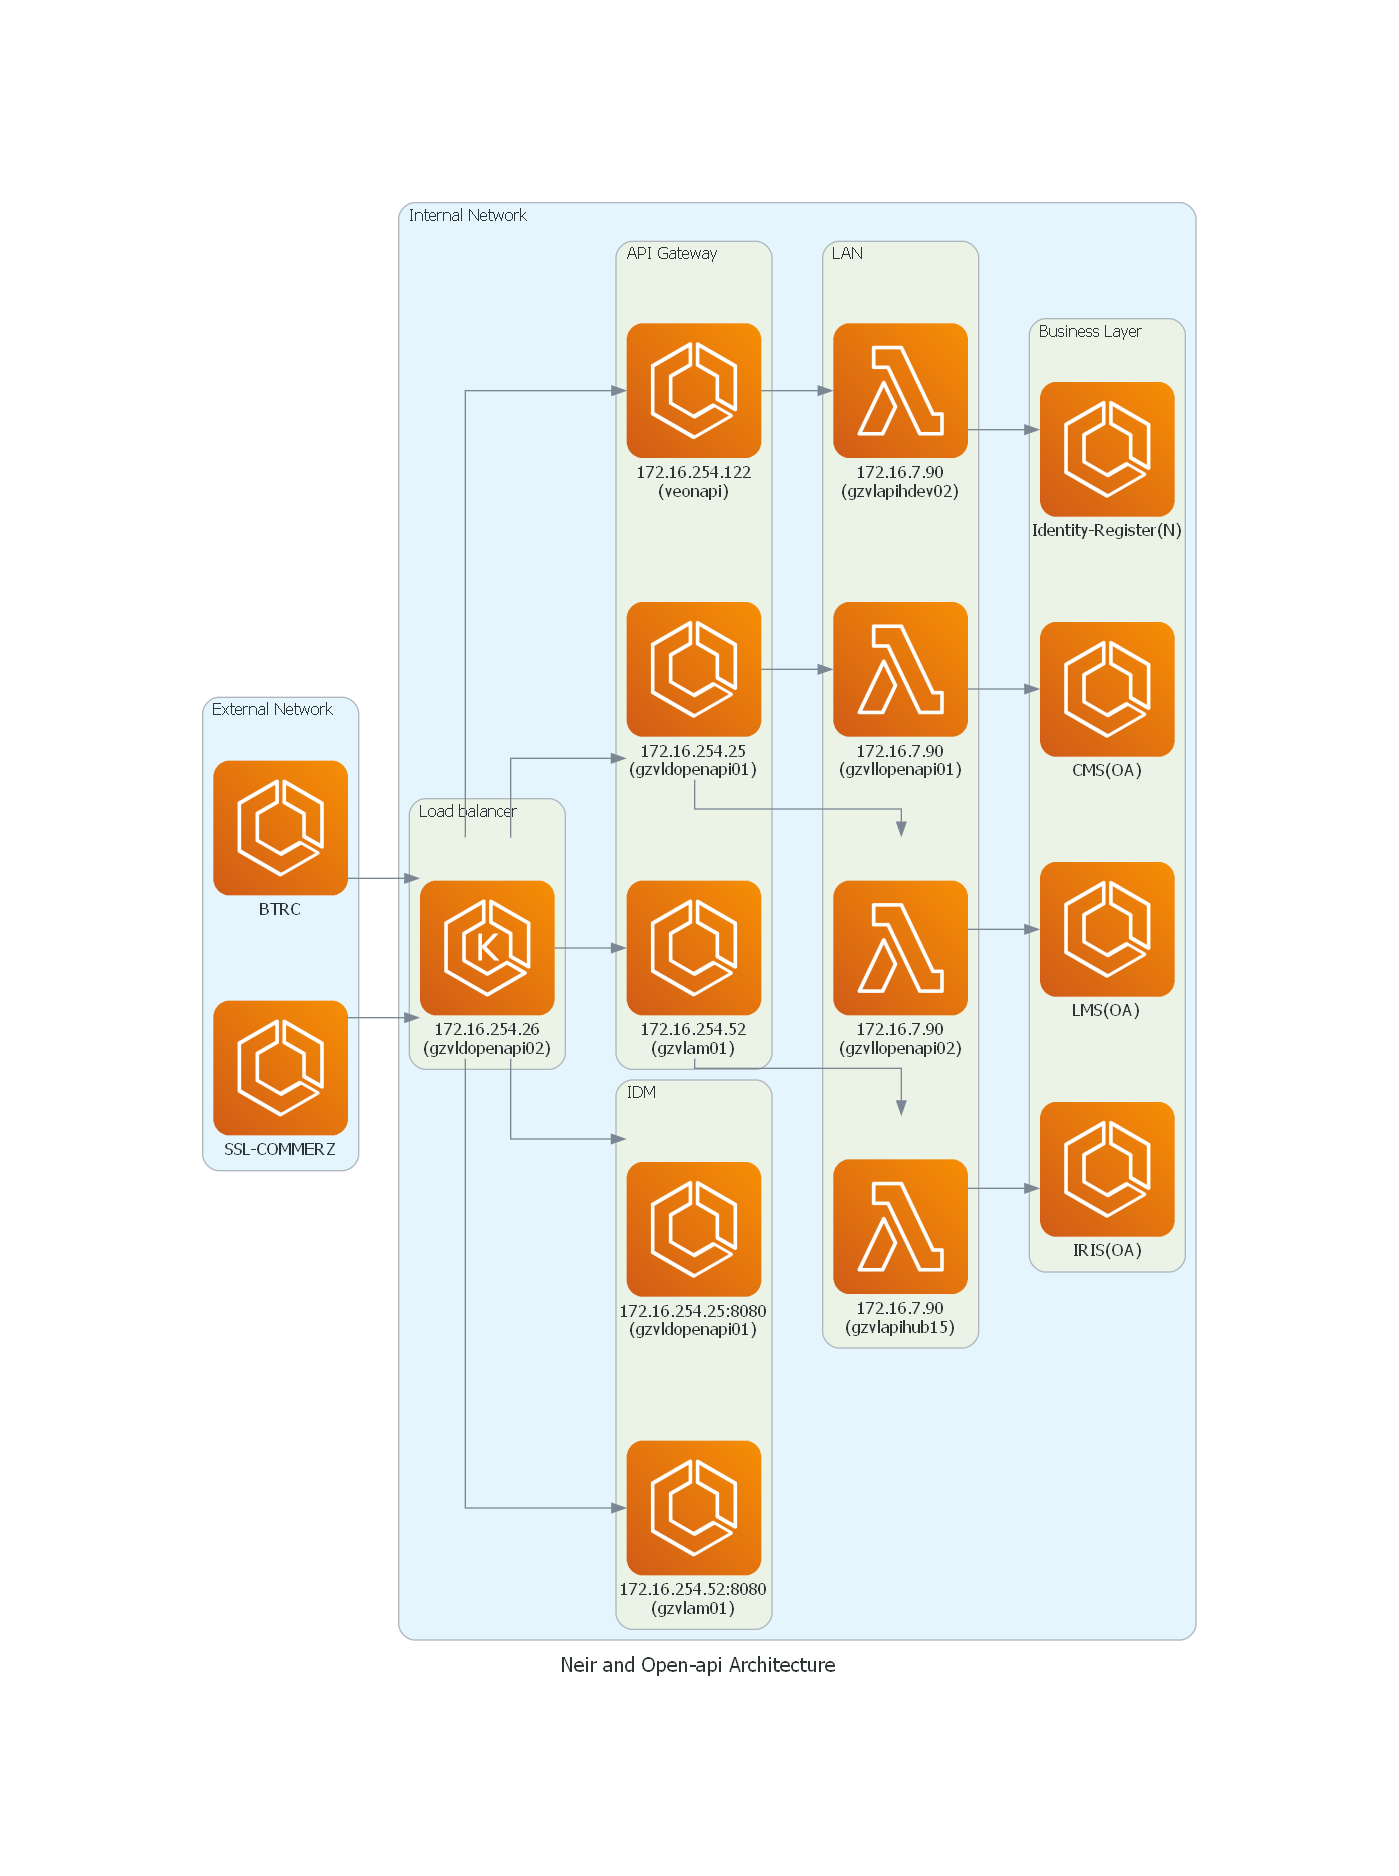
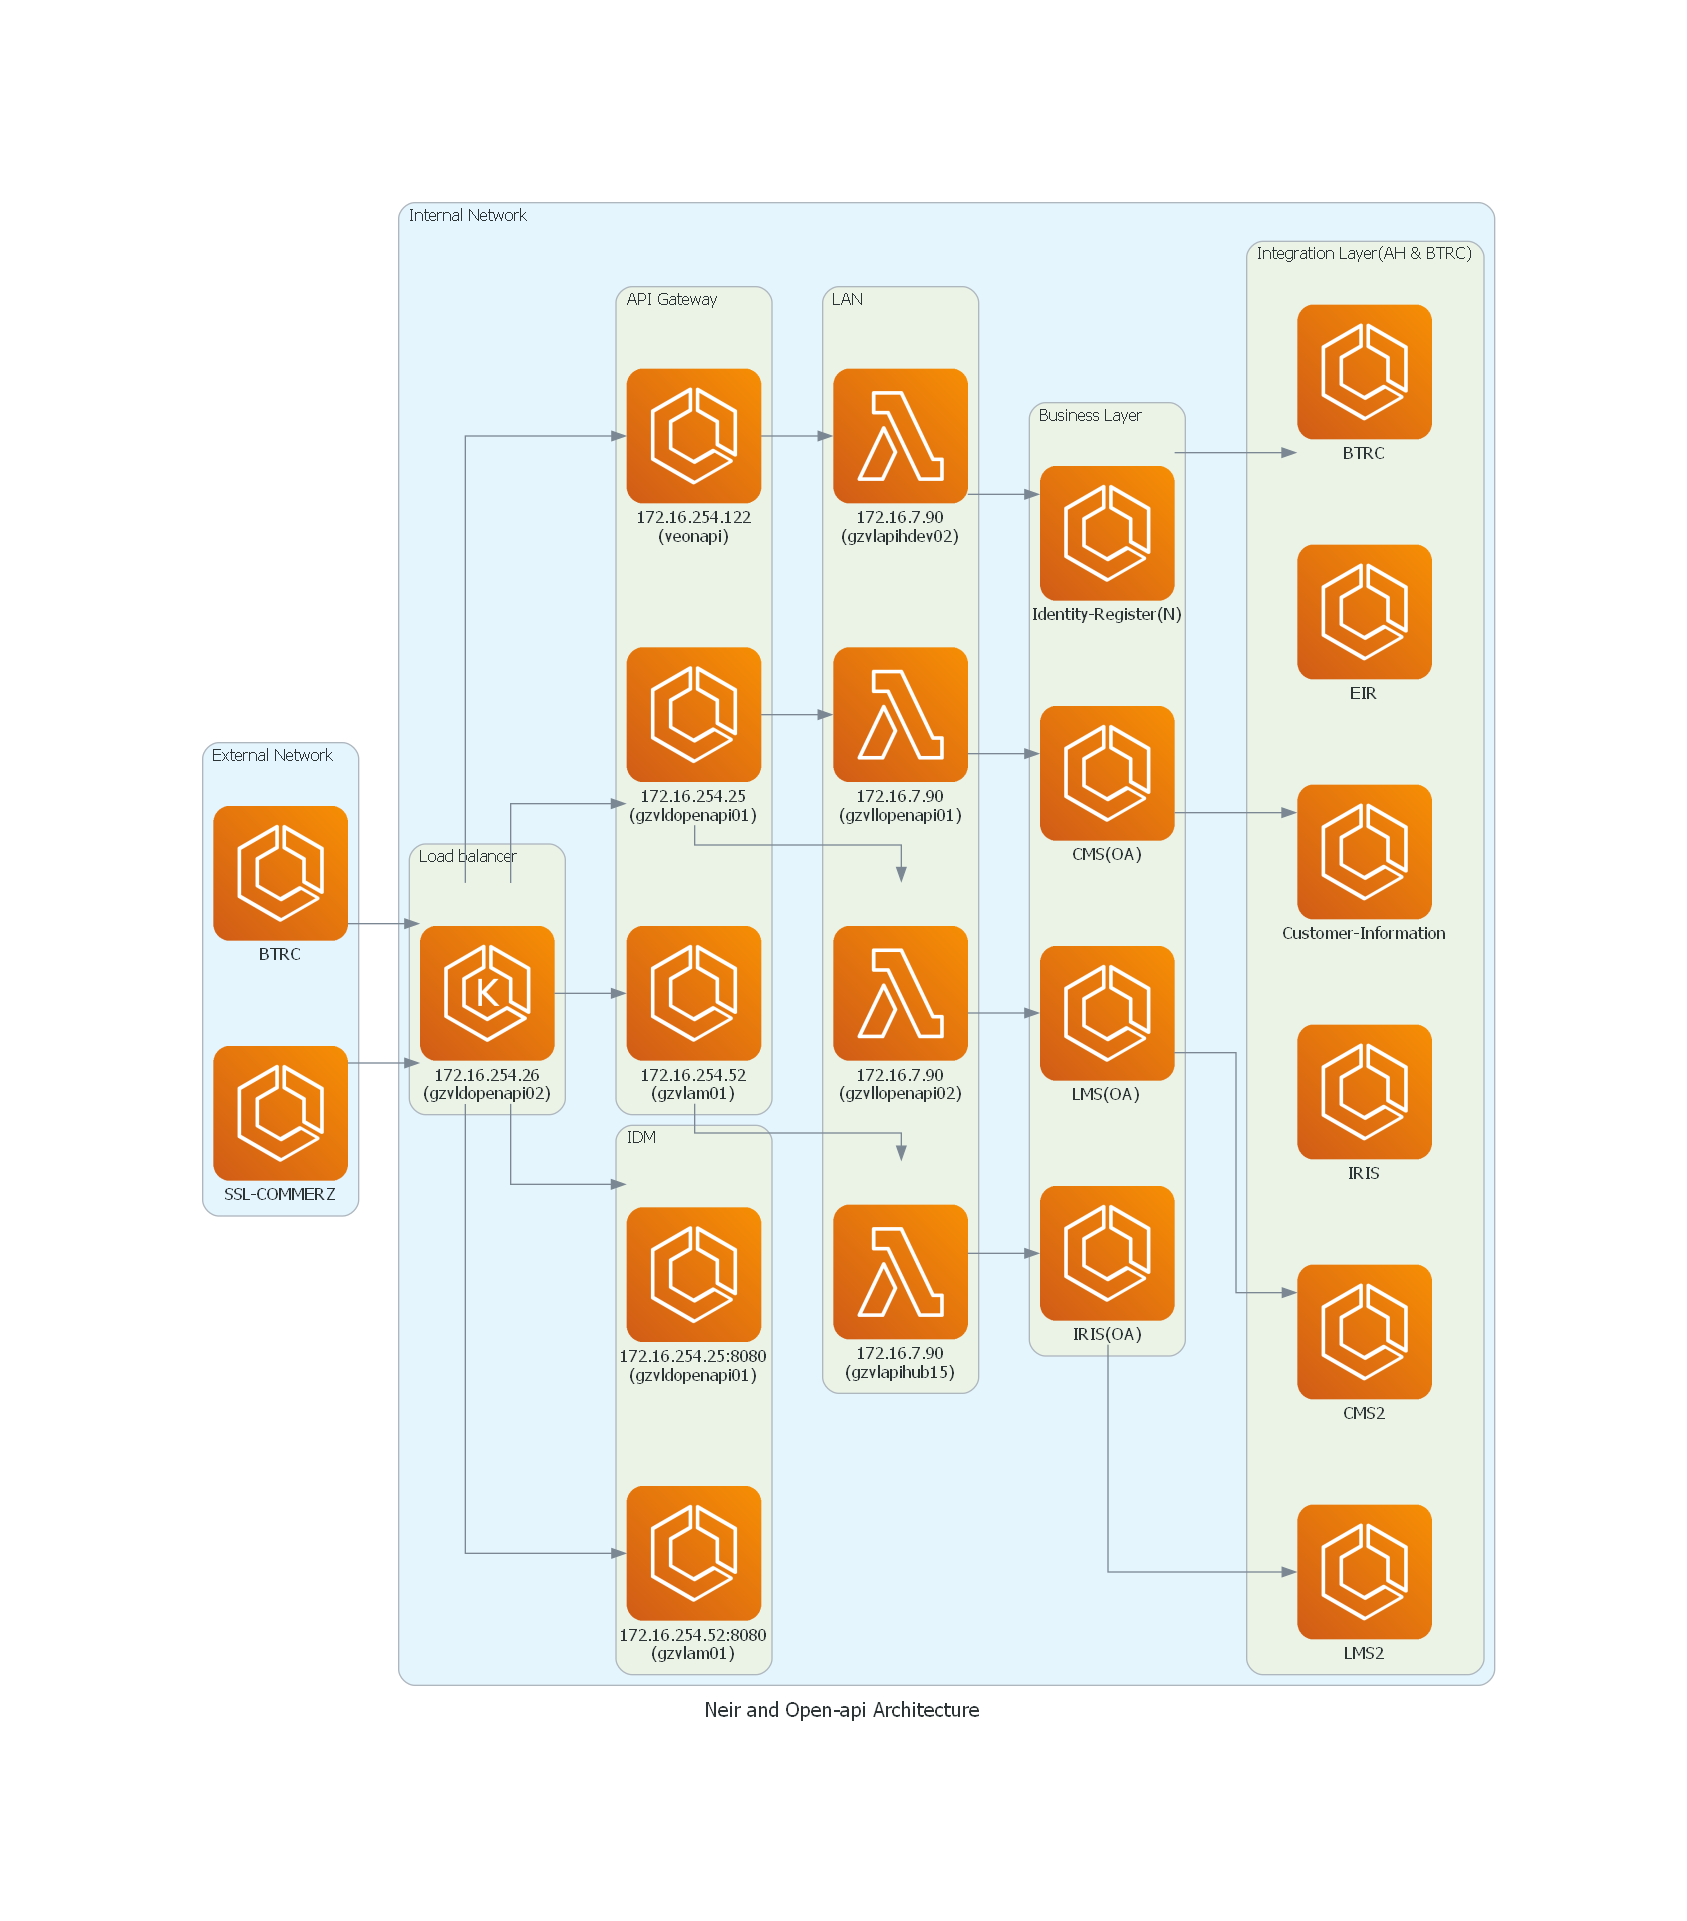
update 7

Changed region(s): [[0.0922, 0.0928, 0.8914, 0.8966]]

diff --git a/FinalDiagram.py b/FinalDiagram.py
@@ -60,3 +60,7 @@ with Diagram("Neir and Open-api Architecture", show=True):
     lan2 >> bl2
     lan3 >> bl3
     lan4 >> bl4
+    bl1 >> ew1
+    bl2 >> ew3
+    bl3 >> ew5
+    bl4 >> ew6
